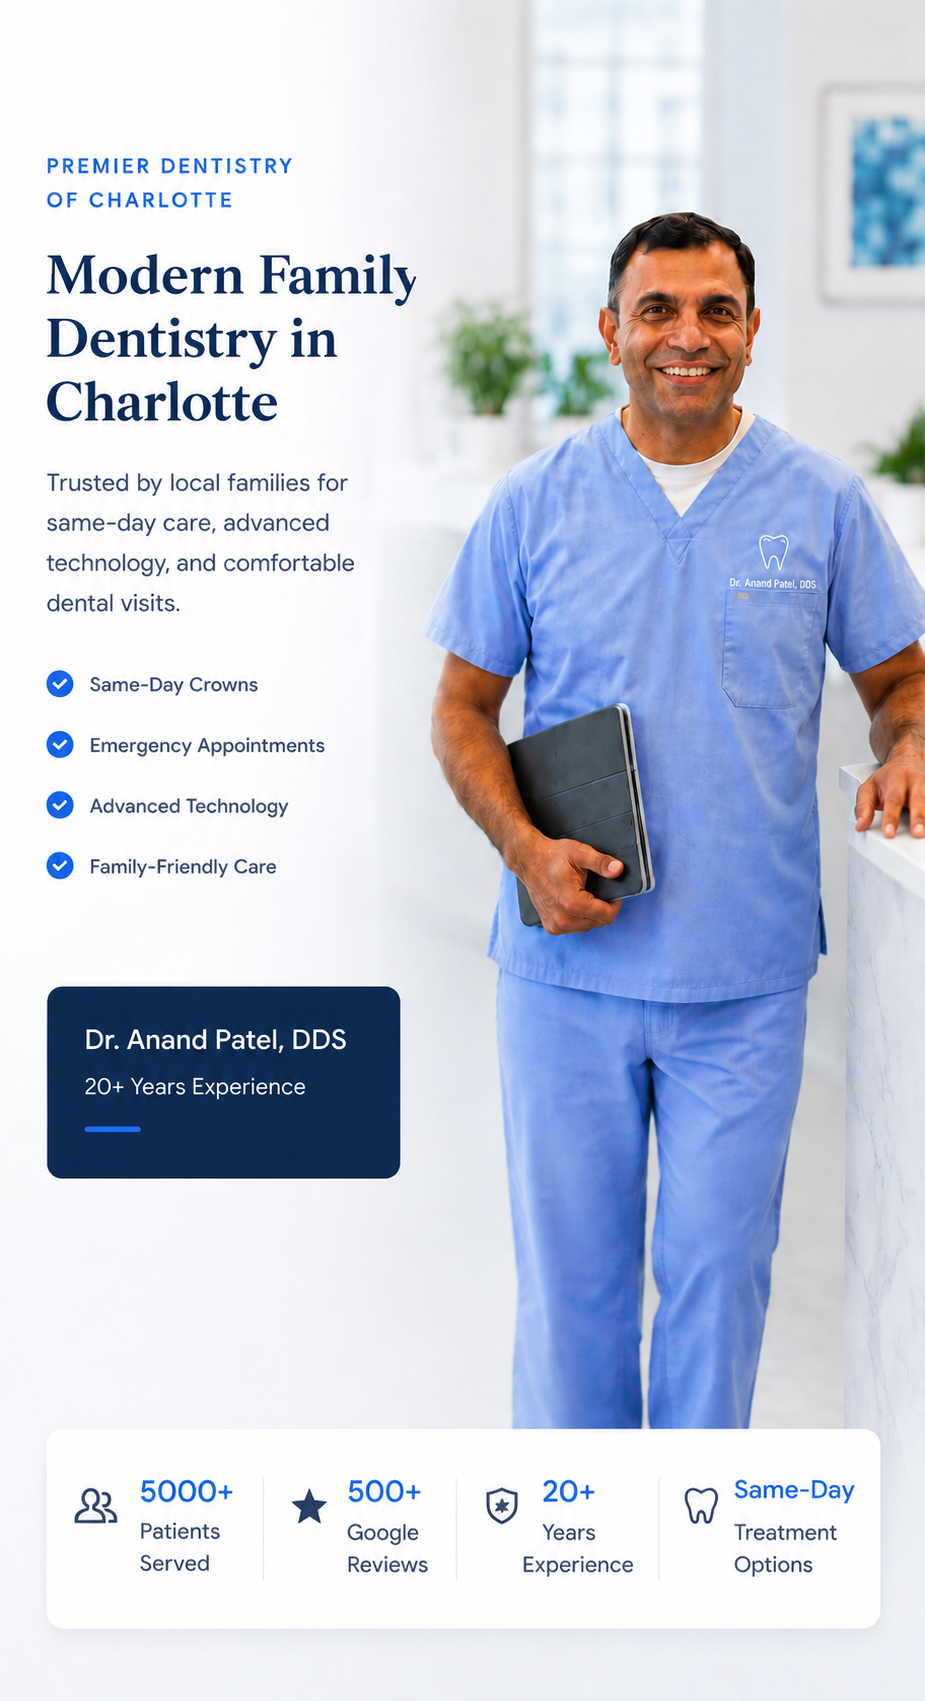
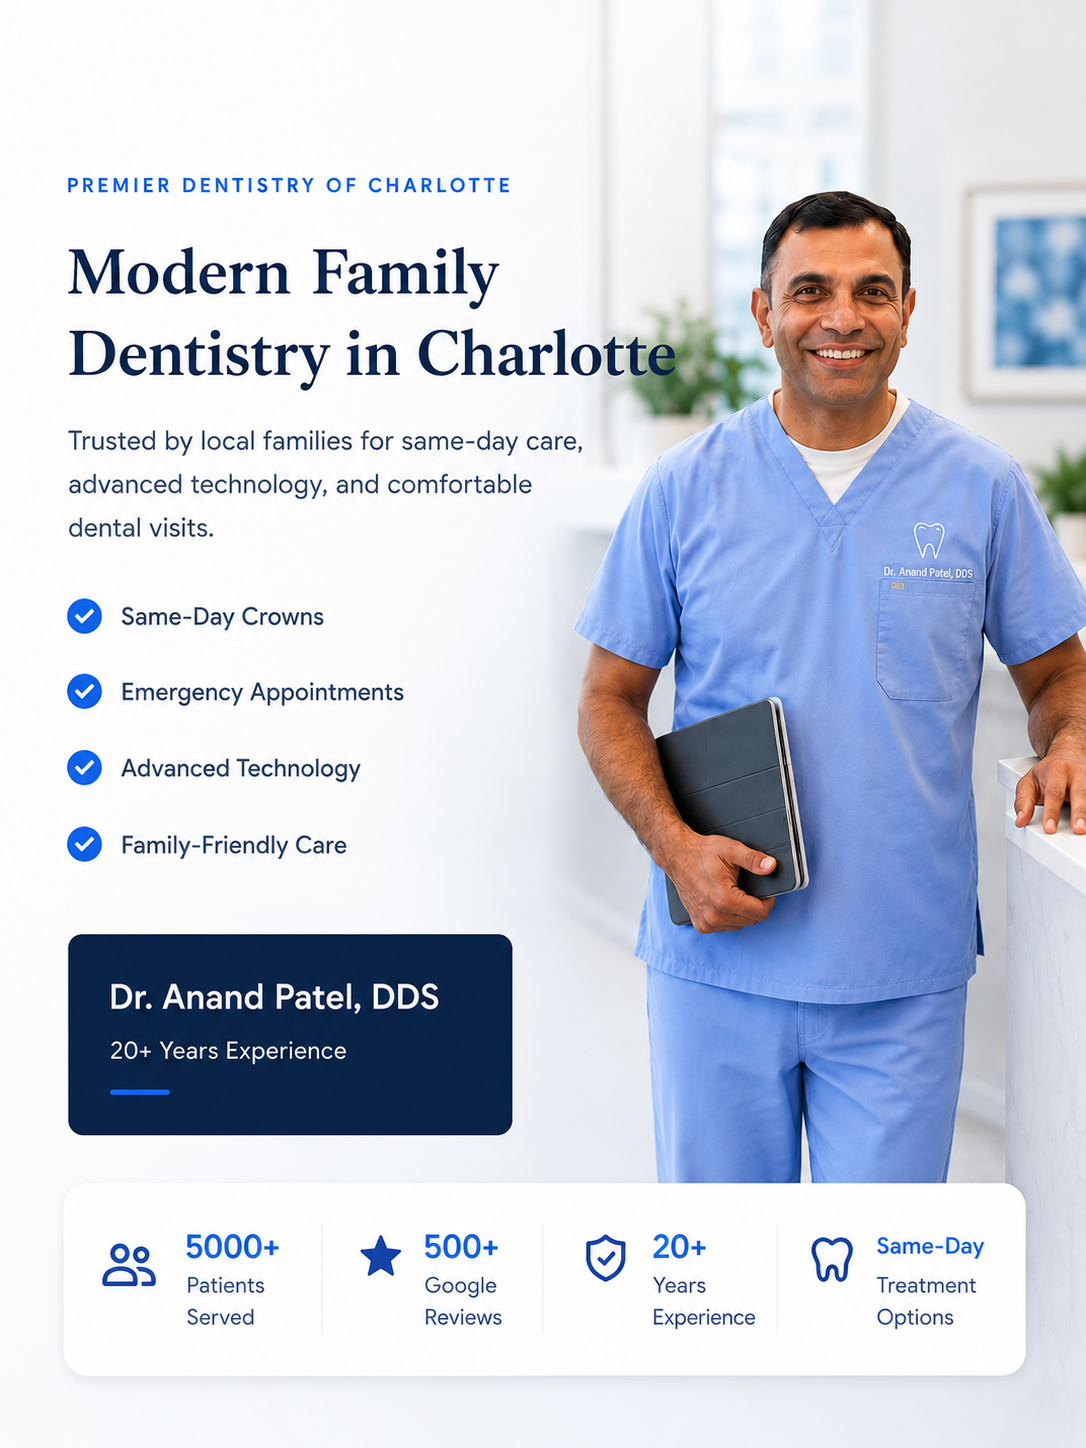
Update mobile hero artwork

diff --git a/src/app/page.tsx b/src/app/page.tsx
@@ -90,7 +90,7 @@ export default function HomePage() {
       />
       {/* HERO */}
       <section className="relative isolate overflow-hidden bg-[#eef5fb] text-ink">
-        <div className="relative aspect-[925/1701] w-full overflow-hidden sm:hidden">
+        <div className="relative aspect-[1086/1448] w-full overflow-hidden sm:hidden">
           <Image
             src="/hero-doctor-mobile-complete.png"
             alt="Premier Dentistry mobile hero with Dr. Anand Patel"
